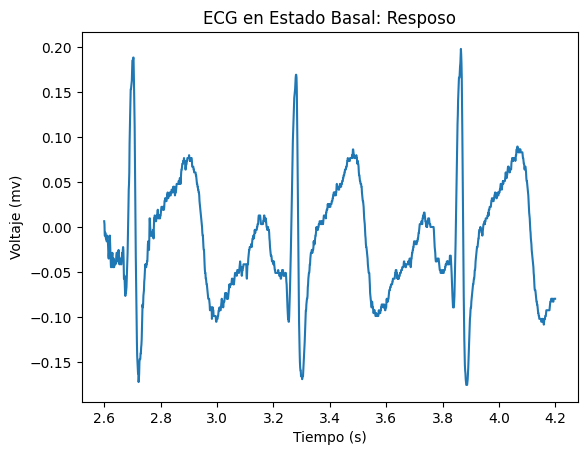
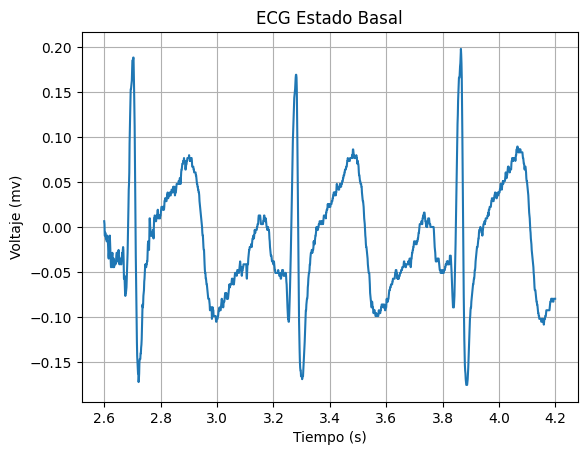
importECG

diff --git a/ISB/Laboratorio 6 - Filtros digitales/Informe.md b/ISB/Laboratorio 6 - Filtros digitales/Informe.md
@@ -95,10 +95,9 @@ Se tomó registro de la señal en el usuario en estado de reposo, hiperventilaci
 
 | Campo | Señal Cruda | Filtro IRR | Filtro FIR |
 |:--------------:|:--------------:|:--------------:|:--------------:|
-| Figura 6. Reposo | ![alt text](image-7.png)| ![alt text](imageX.png) | ![alt text](imageX.png) |
-| Figura 7. Hiperventilación   | ![alt text](image-8.png)| ![alt text](imageX.png) | ![alt text](imageX.png)|
-| Figura 8. Después de ejercicio| ![alt text](image-9.png)| ![alt text](imageX.png)| ![alt text](imageX.png)|
-| Figura 9. Respiraciones largas | ![alt text](image-10.png)| ![alt text](imageX.png)| ![alt text](imageX.png)|
+| Figura 6. Estado Basal | ![alt text](image-7.png)| ![alt text](imageX.png) | ![alt text](imageX.png) |
+| Figura 7. Después de ejercicio| ![alt text](image-8.png)| ![alt text](imageX.png)| ![alt text](imageX.png)|
+| Figura 8. Respiraciones largas | ![alt text](image-9.png)| ![alt text](imageX.png)| ![alt text](imageX.png)|
 
 #EEG
 
@@ -178,11 +177,20 @@ label = "EMG de los bíceps"
 
 # Señales ECG
 
+path = "/content/drive/MyDrive/PUCP/7mo ciclo/Instruducción a Señales Biomédicas/Laboratorios/ECG/J1.txt"
+[n, ECGsignal] = get_values(path, 6)
+label = "ECG Estado Basal"
+plot_values(n, ECGsignal, label, 2600, 4200)
+
+path = "/content/drive/MyDrive/PUCP/7mo ciclo/Instruducción a Señales Biomédicas/Laboratorios/ECG/POS EJERCICIO.txt"
+[n, ECGsignal] = get_values(path, 6)
+label = "ECG Estado Post Ejercicio"
+plot_values(n, ECGsignal, label,  2600, 4200)
+
 path = "/content/drive/MyDrive/PUCP/7mo ciclo/Instruducción a Señales Biomédicas/Laboratorios/ECG/RESPIRACION.txt"
 [n, ECGsignal] = get_values(path, 6)
 label = "ECG Durante respiración"
-
-
+plot_values(n, ECGsignal, label,  2600, 4200)
 
 # Señales EEG
 
